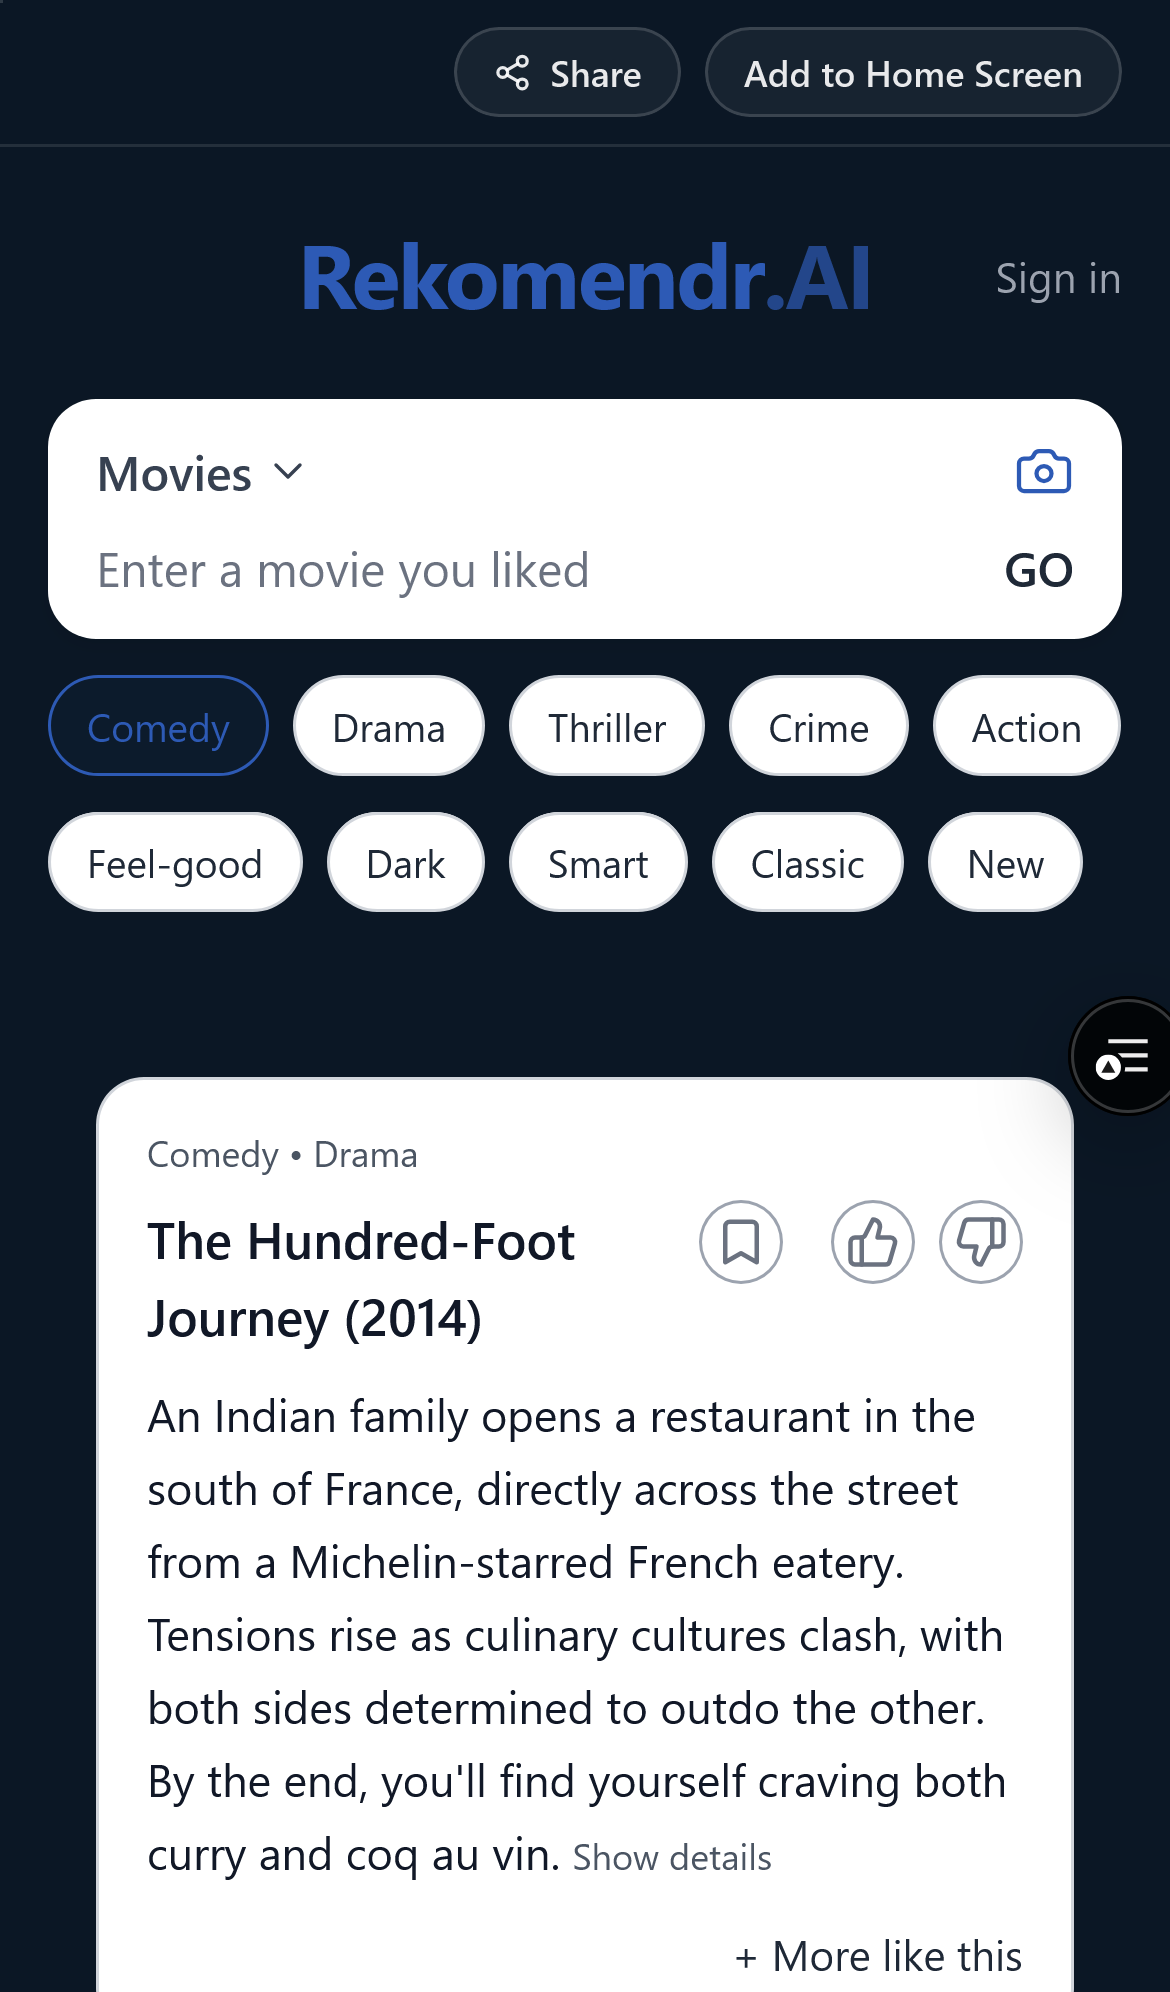
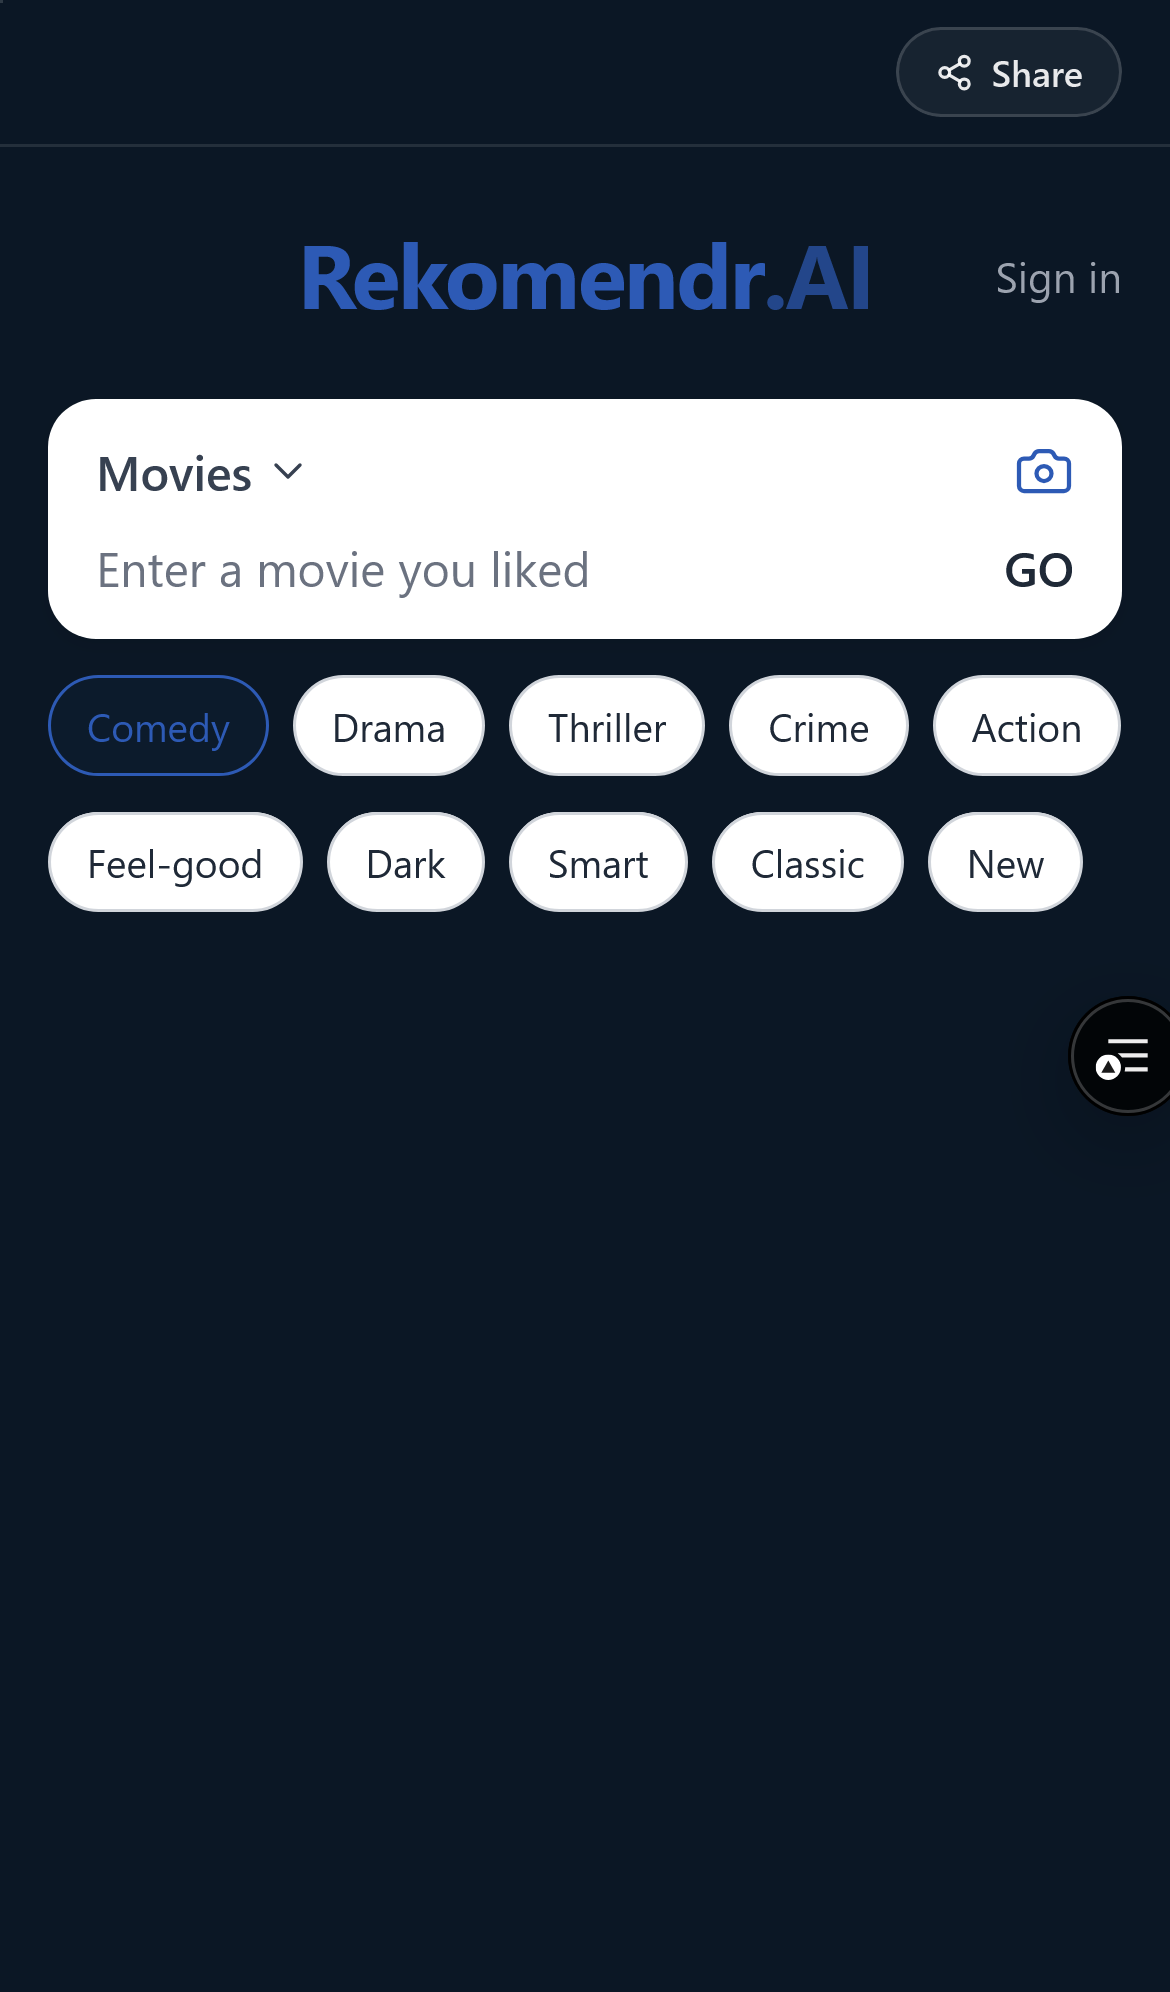
S5 + chain close: session log, combined validation batch, promotion checklist

diff --git a/docs/SESSION_LOG.md b/docs/SESSION_LOG.md
@@ -894,3 +894,123 @@ NEXT SESSION SHOULD KNOW:
 - The arrival effect reads `?card`, `?save` and `?claim` exactly once.
 
 VALIDATION: folded into the combined §10.6 batch at the end of this chain.
+
+---
+
+## Session 5 — mood-chips — 2026-10-15 — branch auto/s5-mood-chips (from main) — PR (see chain close) (local agent mode, §11)
+
+**History check (asked by the plan):**
+- No commit ever removed visible chips under the box. The Aug-2025 MVP had rotating example prompts, and from `efad30a` (2026-01-03) genres lived behind "+".
+- What was removed was *automatic* searching: the 2-second auto-go timer (`401886b`, 2026-06-07, a mobile race where a late Comedy response overwrote a typed search; the same commit added the `searchIdRef` guard) and the category-switch auto-search (`3eaa04b`, 2026-07-10).
+- Designed around it: no timers, one deliberate tap = one search, the guard drops stale responses, and a category switch still never searches.
+
+SHIPPED:
+- **Row 1, always under the search box.** Movies: Comedy · Drama · Thriller · Crime · Action · Romance · Sci-Fi · Surprise me. TV and Books have their own sets; Wine: Bold Red · Crisp White · Bubbles · Rosé · Surprise me. One tap = results, no GO (`src/lib/moodChips.ts`, `SearchBar.tsx`).
+- **Row 2 after the first tap:** Feel-good · Dark · Smart · Classic · New. One at a time; each tap re-runs the search. Wine uses its own styles.
+- **No prompt text changed.** Tone refiners use existing TONE_BY_VIBE keys; era refiners qualify the lane string. The engine is byte-identical to main.
+- **Retired:** the "+" dropdown, the "Lane:" line with its vibe menu and "Pick a lane first", and the Play button. "Try another lane" on the exhaustion card still plays the next chip from the pool.
+- **Checks:** `validate-s5` 32/32; regression s1 50, s15 54, s30 69, s2 97; tsc and lint clean.
+- **Preview, WebKit at iPhone size: 16/16.** One tap on Comedy → five comedies in ~12s (Little Miss Sunshine, Grand Budapest, The Nice Guys, Booksmart, The Hundred-Foot Journey). Dark re-runs dark. Typed "Lioness" and a snapped Lioness poster both land the anchor. No old lane UI remains.
+
+FOUND, NOT FIXED:
+- Mood searches take 12–25s on the preview (existing generation path).
+- Row 1 scrolls past five chips at 390px; wrapping is a one-class change if Brad prefers. A feel call.
+- The Saved/Favorites/Liked lanes (only shown with history) went with the "+" dropdown. The S4 panel is their real home.
+
+BRAD MUST: the phone check in the combined batch.
+
+NEXT SESSION SHOULD KNOW:
+- Chips and refiners live in one file (`src/lib/moodChips.ts`), queries built by `chipQuery`.
+- A new refiner either reuses a TONE_BY_VIBE key or touches prompt text. Prompt text is a joint session (§5).
+
+VALIDATION: folded into the combined §10.6 batch below.
+
+---
+
+## Chain close (S4a → S4b → S5) — local agent mode (§11) — 2026-10-15
+
+**Nothing was self-merged.** Auto mode refused `gh pr merge` of #22 ("Merge Without Review"), so the three sessions are stacked for Brad to merge **in order: #22 (S4a) → #23 (S4b) → #24 (S5)**. #24 carries #23, which carries #22; each shrinks to its own diff once the one before lands. No `SESSION_LOG.md` conflicts in that order.
+**Combined preview (all three sessions):** https://rekomendr-ks49o9x0f-brad-asselins-projects.vercel.app. Main does not have them yet, so validate here.
+**Combined tree checks:**
+- Harnesses: s5 32, s4b 48, s4a 82, s30 69, s2 97, s1 50, s15 54, s21 364, s23 35, s36 59. tsc clean.
+- Browser suites on the combined preview: S4a 17/17, S4b 16/16, S5 16/16.
+**Permission change (read-only `vercel logs` on any environment):** approved by Brad, refused for self-edit by auto mode. Still not applied; the script is in the session scratchpad.
+
+### Brad's twenty minutes — combined (§10.6), in this order
+
+Preview: https://rekomendr-ks49o9x0f-brad-asselins-projects.vercel.app (signed in to Vercel on the phone, as usual).
+
+**What to do**
+1. **Mood chips (S5).** Open the preview cold. Under the search box: Comedy · Drama · Thriller · Crime · Action · Romance · Sci-Fi · Surprise me. Tap **Comedy**. Don't tap GO.
+2. When the five arrive, a second row appears: Feel-good · Dark · Smart · Classic · New. Tap **Dark**.
+3. Switch the category to **TV Shows**, then **Wine**. Each has its own row, and switching alone doesn't search.
+4. **The card (S4a).** TV Shows → type **Lioness** → GO → tap **Share**. A one-line question appears: *"Your name, so friends know it's from you."* Type your name → Share → text it to yourself.
+5. Beside Share it now reads **"as <your name>"**. Tap Share again: no question this time.
+6. Open the link you texted yourself. Top of the card: poster, **"<Name>'s pick"**, the title, a big **▶ Watch on <service>** and **Trailer**, and **Save** at top right. Scroll to the bottom: **"Snap your own →"**.
+7. **The bridge (S4b).** Tap **Save** on that card. The app opens with Lioness on top, the bookmark filled, and five similar shows loading. A sheet says *"Saved. Keep Rekomendr on your Home Screen"* with three steps. Tap **Not now** (the real home-screen test is step 10, on production).
+8. Snap a poster or a bottle. Same as yesterday.
+9. **Readout.** Open `<preview>/api/stats?key=<STATS_KEY from .env.local>`. Your own steps show up: cards sent, receivers, saves.
+10. **After promoting (production only).** Previews sit behind Vercel SSO, so these can only be proven on production:
+    - (a) Text a card to Katrina. In iMessage the bubble should show the poster, the title, and "from <you>".
+    - (b) She opens it (no account), taps Save, follows the sheet (Share → Add to Home Screen → Add), then opens the new icon. **The saved card should already be there.**
+    - (c) She shares any card. The readout's "Receiver → sender" should read 1.
+    - (d) Open `https://www.rekomendr.ai/a/99a1a2a4-9b13-4e9e-b45c-f43de15f82f0`, the old Lioness card. It should show a Watch button and today's services.
+
+**What it should feel like**
+- [ ] One tap on a mood = results. No "+", no "Lane:", no "Pick a lane first" anywhere.
+- [ ] The second row feels optional, and Dark reads darker.
+- [ ] The name question shows up once, takes five seconds, and never nags.
+- [ ] In a text thread the card is unmistakable: poster, title, your name.
+- [ ] The card answers "where do I watch it?" before you scroll.
+- [ ] Save feels like one tap into the app, not a sign-up.
+- [ ] The home-screen sheet appears only after a Save, never on opening the app; the header's old "Add to Home Screen" button is gone.
+- [ ] Your feel calls:
+  - wine's second row (Easy sipper · Special occasion · Crisp & dry · Rich & cozy);
+  - row 1 scrolling past five chips vs wrapping;
+  - the coach sheet's wording;
+  - "Snap your own →" replacing the old "Snapped with Rekomendr" line.
+
+**What to screenshot if it's wrong**
+- The top of the home screen (chips, and the Share pill under the clock).
+- The name question.
+- The card's top half.
+- The text bubble in Messages.
+- The app right after Save (with the sheet).
+- The icon's first launch.
+- `/api/stats`.
+- Log lines starting `[card-providers]`, `[card-event]`, `[card-save]`, `[card-claim]`, `[profile]`, `[share]`.
+
+### Production promotion checklist (§11.8)
+
+**Merge order:** #22 → #23 → #24. Then open `main → release/v2` as usual.
+
+**Production environment variables (Brad, Vercel → Settings → Environment Variables → Production):**
+- `STATS_KEY` — **new.** The key to the readout page.
+  - Generate any long random string, e.g. on a Mac: `openssl rand -base64 24`.
+  - Without it `/api/stats` answers 404; the SQL readout still works.
+  - Keep it private: it's the readout's only lock.
+- `MINT_SIGNING_SECRET` — already in Production. S4b's claim tokens also use it, so keep it the same as Preview.
+- `TMDB_API_KEY` — already in Production; used for live where-to-watch.
+
+**Migration already live (one database for previews and production):**
+- `docs/sql/s4-card.sql`: 7 nullable columns on `anchor_snapshots`, plus `client_profiles` and `card_events`.
+- Backup: **`backups/2026-10-15-1746-s4a.sql`** (517,280 bytes).
+- Additive; Blocks 1–4 passed. Rollback is Block 5 (Brad's call only).
+- The code fails soft without the tables.
+
+**Revert:** each PR's merge commit, individually, with `git revert -m 1 <sha>` (SHAs exist once Brad merges).
+
+**Decisions for Brad:**
+1. **Approve or strike the proposed §2 invariant 13**, "A shared card is permanent". The text is in PR #22.
+2. Delete the Oct 11–12 **CLI preview deployments**. They very likely uploaded `backups/*.sql` (user data) to Vercel's source storage. `.vercelignore` now prevents it, and sessions can't delete deployments.
+3. Apply the `vercel logs` permission yourself if you still want it. Paste this as one line:
+   `! node "C:\Users\BRADAS~1\AppData\Local\Temp\claude\C--Users-Brad-Asselin\a4063f42-3539-4c7f-a87a-fb6319dc23f9\scratchpad\apply-logs-permission.js"`
+   Or make the same edit by hand: in `.claude/settings.local.json`, replace both `vercel*production*` deny rules with `vercel deploy|build|pull|env|project|git *production*`.
+4. Allow self-merge to `main` in auto mode if future chains should land their own PRs (§10.3). Today it was refused.
+5. **Start the test clock** the day S4 reaches production, and pass `?since=YYYY-MM-DD` to `/api/stats` (or edit the date at the top of `docs/sql/test-readout.sql`).
+
+**Production test residue from this chain:**
+- `anchor_snapshots`: 6 agent rows (`anon_agent_s4*`), **all revoked**, so those links 404.
+- `card_events`: 22 rows from 6 `anon_agent_*` ids. The readout excludes them by design.
+- `client_profiles`: 2 agent rows.
+- The real Lioness card `99a1a2a4-…` was left live and now carries its TMDb id, poster and providers.
